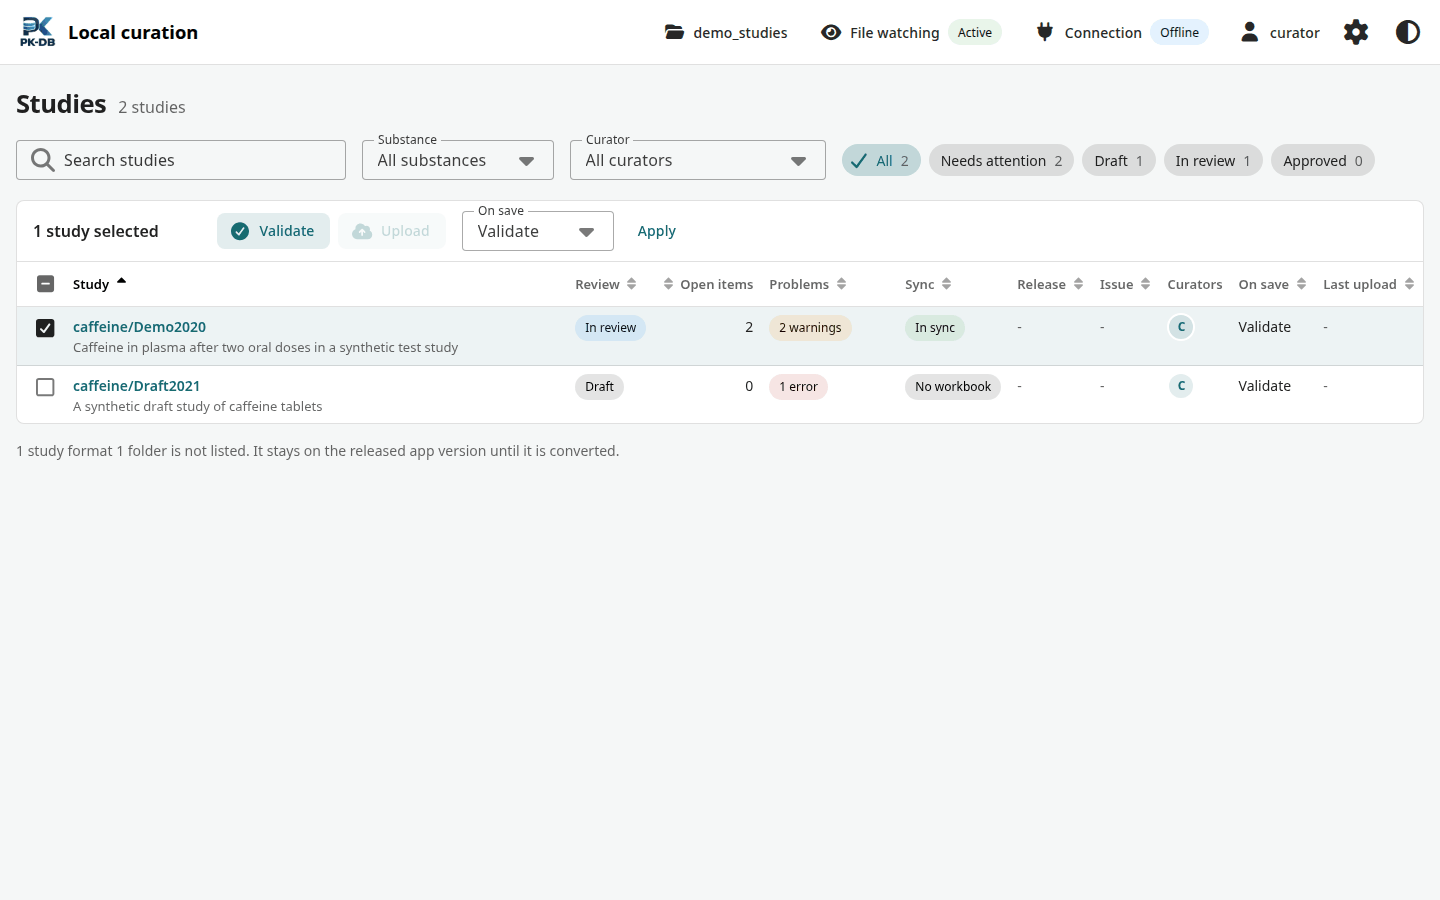
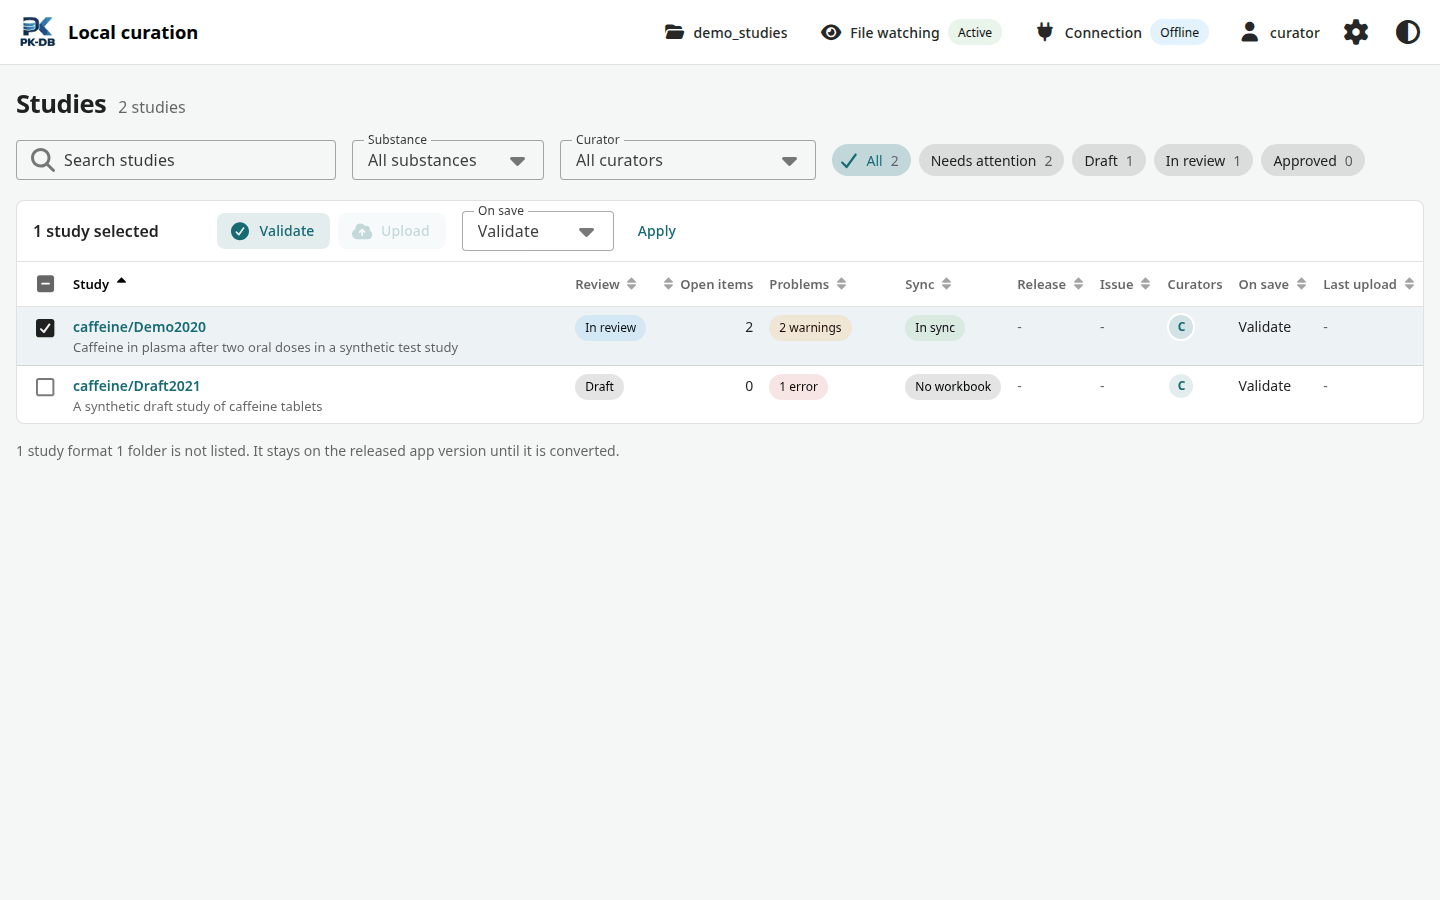
Load the curator profiles after a pasted launch URL and keep the overview fields in place
A launch URL pasted into an open overview without a session creates the session and loads the state, but does not mount the page again, and the page loaded the curator roster only when it mounted. Its avatars kept their initials and the Curator filter its user names until a reload. The overview now loads the roster with the state of the local server until it has loaded.

The search field took the width that the status chips left, so it grew or shrank with the counts of the chips, and a second line of chips moved every field down. The fields no longer grow and keep to the top of the row, on the center line of the first row of chips.

Changed region(s): [[0.5312, 0.1556, 0.9688, 0.2178], [0.25, 0.1556, 0.4688, 0.1867]]

diff --git a/frontend/tests/components/curation-overview-page.spec.ts b/frontend/tests/components/curation-overview-page.spec.ts
@@ -231,6 +231,39 @@ describe("OverviewPage", () => {
     expect(curators.get('[role="img"][aria-label="curator"]').text()).toBe("C");
   });
 
+  it("loads the curator profiles once the page has a session, as after a pasted launch URL", async () => {
+    // Without a session the local server answers 401; a launch URL pasted into the open overview
+    // creates the session and loads the state, but does not mount the page again.
+    let session = false;
+    const state = snapshot({ studies: [harder], author: { user: "mkoenig", reason: null } });
+    vi.spyOn(globalThis, "fetch").mockImplementation(async (input) => {
+      const path = new URL(input instanceof Request ? input.url : String(input), "http://127.0.0.1").pathname;
+      const [status, body] = !session
+        ? [401, { error: "No session" }]
+        : path === "/local/state"
+          ? [200, state]
+          : [200, { curators: profiles }];
+      return new Response(JSON.stringify(body), { status, headers: { "Content-Type": "application/json" } });
+    });
+    await useOverviewStore().refresh();
+    router = makeRouter();
+    await router.push("/");
+    await router.isReady();
+    const wrapper = mount(OverviewPage, { attachTo: document.body, global: { plugins: [pinia, router] } });
+    await flushPromises();
+    expect(page().find(".study-table").exists()).toBe(false);
+
+    session = true;
+    await useOverviewStore().refresh();
+    await flushPromises();
+    const curators = rowOf("caffeine/Harder1988").get(".cell-curators");
+    expect(curators.get('img[alt="Matthias König"]').attributes("src")).toBe("/avatars/matthias_koenig.webp");
+    const select = wrapper.findAllComponents(VSelect).find((candidate) => candidate.props("label") === "Curator")!;
+    expect((select.props("items") as { title: string }[]).map((item) => item.title)).toContain(
+      "Me: Matthias König (1)",
+    );
+  });
+
   it("shows at most three circles of curators, the last one counting the others", async () => {
     const many = studyRow({ summary: { ...example.summary, curators: ["a", "b", "curator", "mkoenig", "janekg"] } });
     await mountPage(snapshot({ studies: [many, harder] }));

diff --git a/frontend/src/curation-app/views/OverviewPage.vue b/frontend/src/curation-app/views/OverviewPage.vue
@@ -1,5 +1,5 @@
 <script setup lang="ts">
-import { computed, onMounted, ref, shallowRef, useId, watch } from "vue";
+import { computed, ref, shallowRef, useId, watch } from "vue";
 import {
   VAlert,
   VBtn,
@@ -45,18 +45,26 @@ const stale = computed(() => overview.error !== null);
 const blocker = computed(() => (snapshot.value ? uploadBlocker(snapshot.value) : null));
 
 // Curator profiles for the avatars and the Curator filter; without them the avatars show initials
-// and the filter shows user names.
+// and the filter shows user names. They load with the state of the local server until they loaded:
+// a launch URL pasted into the open overview creates the session without mounting the page again.
 const profiles = shallowRef<ReadonlyMap<string, Profile>>(new Map());
-onMounted(() => {
-  useStudyStore()
-    .curators()
-    .then(
-      (list) => {
-        profiles.value = profileMap(list);
-      },
-      () => undefined,
-    );
-});
+let profilesLoaded = false;
+watch(
+  snapshot,
+  (state) => {
+    if (!state || profilesLoaded) return;
+    useStudyStore()
+      .curators()
+      .then(
+        (list) => {
+          profiles.value = profileMap(list);
+          profilesLoaded = true;
+        },
+        () => undefined,
+      );
+  },
+  { immediate: true },
+);
 
 // Filters
 const filters = useOverviewFilters();
@@ -427,15 +435,24 @@ const format1Notice = computed(() =>
 .overview-count {
   color: rgba(var(--v-theme-on-surface), var(--v-medium-emphasis-opacity));
 }
+/*
+ * The counts of the chips change with the filters, and the chips may wrap. So that they never
+ * move the fields, the fields do not grow and keep to the top of the row; their 4px margin puts
+ * them on the center line of the first row of chips, which their group pads by 4px.
+ */
 .overview-filters {
   display: flex;
   flex-wrap: wrap;
-  align-items: center;
-  gap: 12px 16px;
+  align-items: flex-start;
+  gap: 4px 16px;
+}
+.overview-search,
+.overview-substance,
+.overview-curator {
+  margin-block: 4px;
 }
 .overview-search {
-  flex: 1 1 18rem;
-  max-width: 28rem;
+  flex: 0 1 20rem;
 }
 .overview-substance {
   flex: 0 1 12rem;

diff --git a/frontend/tests/curation-e2e/overview.spec.ts b/frontend/tests/curation-e2e/overview.spec.ts
@@ -127,6 +127,24 @@ test("filters the studies by curator and keeps the filters when a study is opene
   await expect(page.getByText("1 of 2 studies")).toBeVisible();
 });
 
+test("the filter fields keep their place when the counts of the status chips change", async ({ page }) => {
+  // Wide enough for the fields and the chips in one row.
+  await page.setViewportSize({ width: 1440, height: 900 });
+  await validated(page);
+  const fields = [
+    page.getByRole("textbox", { name: "Search studies" }),
+    page.getByRole("combobox", { name: "Substance" }),
+    page.getByRole("combobox", { name: "Curator" }),
+  ];
+  const boxes = () => Promise.all(fields.map((field) => field.boundingBox()));
+  const before = await boxes();
+  // Counts of more digits, as in a workspace of hundreds of studies, make the chips wider.
+  await page.locator(".overview-chips .chip-count").evaluateAll((counts) => {
+    for (const count of counts) count.textContent = "1234";
+  });
+  expect(await boxes()).toEqual(before);
+});
+
 test("Validate queues a job, and the study shows it until it ran", async ({ page }) => {
   await validated(page);
   // While automatic actions are paused, the job waits in the queue.

diff --git a/release-notes/unreleased.md b/release-notes/unreleased.md
@@ -9,3 +9,7 @@
 - The Tables section of the local curation app hides the empty columns when it opens, because most tables leave many of their fixed columns empty. The switch **Hide empty columns** shows them again.
 
 - The overview of the local curation app filters the studies by curator. **Curator** lists every curator of the workspace with the number of their studies, and **Me**, the PK-DB user of the app, first, so a curator sees their own studies. The filters and the sort order of the overview stay when a study is opened and the overview is shown again; before, every visit of a study reset them.
+
+- The overview of the local curation app shows the names and pictures of the curators after a launch URL was pasted into an open overview without a session. Before, it kept their initials and the Curator filter their user names until the page was reloaded, because it loaded the curator roster only when it opened.
+
+- The search and the selects of the overview stay in place when the counts of the status chips change. Before, the search field took the width that the chips left, so it grew or shrank by a few pixels with each filter, and a second line of chips moved every field down.
